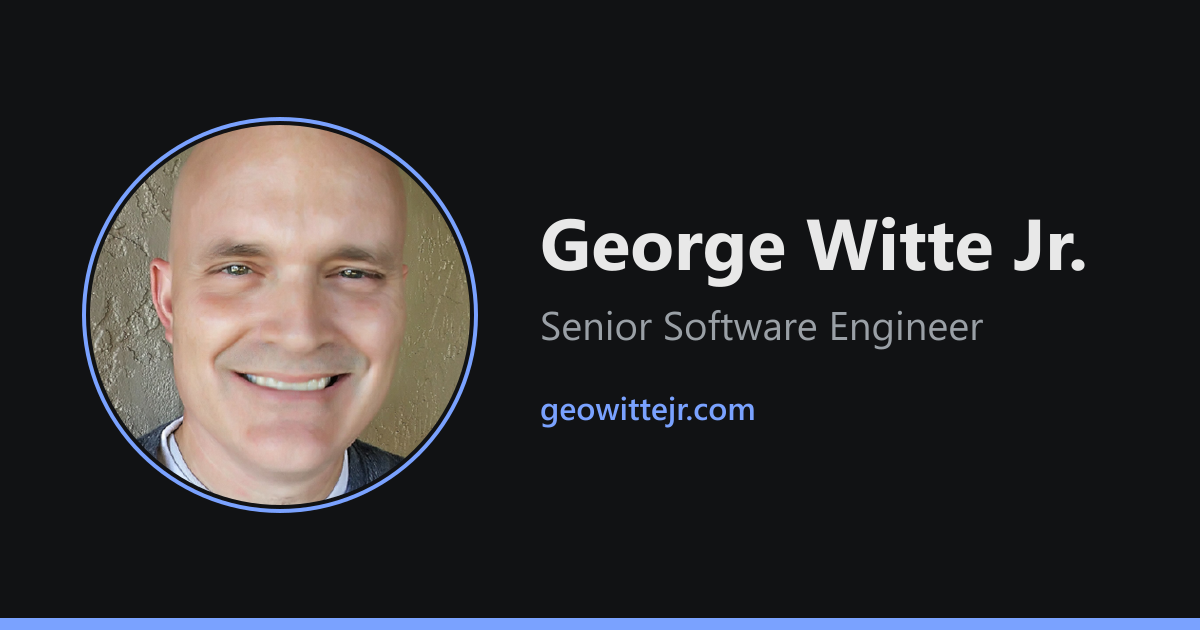
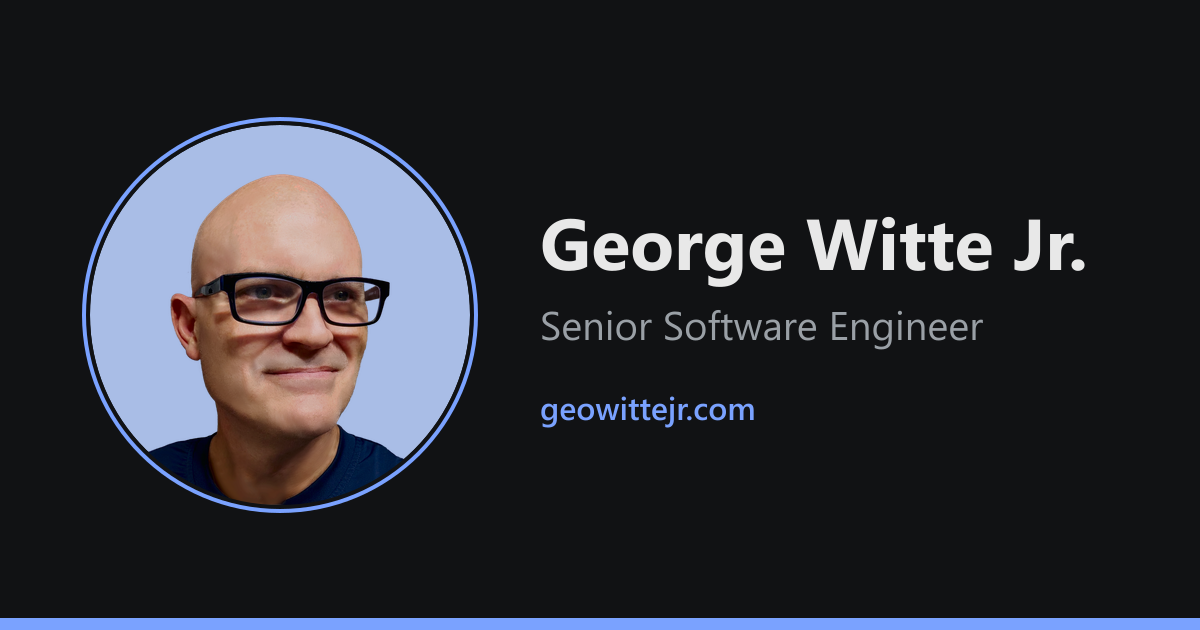
Build OG image from new transparent headshot
- Add public/geowittejr.png (transparent background) and drop scripts/headshot.png
- og-image.mjs reads the dark theme tokens from global.css, including a new
  --headshot-bg token that fills behind the transparent photo
- Regenerate public/og-image.png; update project plan

Changed region(s): [[0.0617, 0.181, 0.4008, 0.8143]]

diff --git a/src/styles/global.css b/src/styles/global.css
@@ -23,6 +23,8 @@
   --muted: #5f6368;
   --accent: #2557d6;
   --border: #e5e7eb;
+  /* Fill behind the transparent headshot (public/geowittejr.png). */
+  --headshot-bg: #dbe4f7;
   color-scheme: light;
 }
 
@@ -33,6 +35,7 @@
   --muted: #9aa0a6;
   --accent: #7aa2ff;
   --border: #2a2c30;
+  --headshot-bg: #a9bde6;
   color-scheme: dark;
 }
 
@@ -44,6 +47,7 @@
     --muted: #9aa0a6;
     --accent: #7aa2ff;
     --border: #2a2c30;
+    --headshot-bg: #a9bde6;
     color-scheme: dark;
   }
 }

diff --git a/docs/project-plan.md b/docs/project-plan.md
@@ -1,6 +1,6 @@
 # Project Plan: geowittejr.com
 
-> **Status:** Active · **Owner:** George Witte Jr. · **Last updated:** 2026-10-14
+> **Status:** Active · **Owner:** George Witte Jr. · **Last updated:** 2026-10-16
 >
 > This is the source of truth for how the site is built. Change this file when a decision changes, and log the change in the [Decision Log](#decision-log). Deeper designs for individual features go in [`docs/`](README.md).
 
@@ -55,10 +55,10 @@ geowittejr-dot-com/
 ├── public/                     # served as-is, not processed
 │   ├── CNAME                   # custom domain: geowittejr.com
 │   ├── favicon.svg
+│   ├── geowittejr.png          # headshot, transparent background (fill: --headshot-bg)
 │   └── og-image.png            # default social share image (built by scripts/og-image.mjs)
 ├── scripts/
-│   ├── og-image.mjs            # generates public/og-image.png with sharp
-│   └── headshot.png            # source photo for the OG image
+│   └── og-image.mjs            # generates public/og-image.png with sharp
 ├── src/
 │   ├── assets/                 # images optimized via astro:assets
 │   │   └── projects/
@@ -240,7 +240,7 @@ Each project body follows this outline. Senior hiring cares more about judgment 
   - [ ] Replace placeholder copy with real content
   - [ ] Wire the contact form to an endpoint that verifies the Turnstile token; swap in the real site key
 - [x] **M5: Polish.** Lighthouse/a11y pass, OG image, 404 page.
-  - Default OG/Twitter image `public/og-image.png` (1200×630, headshot + name), generated by `node scripts/og-image.mjs`; pages without their own image use it, with `summary_large_image`.
+  - Default OG/Twitter image `public/og-image.png` (1200×630, headshot + name), generated by `node scripts/og-image.mjs` from `public/geowittejr.png`. Colors come from the dark theme tokens in `global.css`; `--headshot-bg` fills behind the transparent headshot. Change a token and rerun the script; pages without their own image use it, with `summary_large_image`.
   - Lighthouse (desktop) on home, About, Resume, Contact, a case study, and a post: 100 in all four categories.
   - Contact form a11y: labeled fields, `:user-invalid` error styling with text + icon, `aria-invalid` synced, `aria-errormessage`.
   - 404 links back to the main sections.
@@ -255,6 +255,7 @@ Newest first. Each entry records what was decided and why, so the reasoning surv
 
 | Date       | Decision                                                                 | Rationale                                                          |
 | ---------- | ------------------------------------------------------------------------ | ------------------------------------------------------------------ |
+| 2026-10-16 | Transparent headshot; backdrop color is the `--headshot-bg` CSS token, read by the OG script | One place to change the color, for the site and the OG image |
 | 2026-10-14 | Contact form with Cloudflare Turnstile instead of a public email address | Avoids scraped-email spam; Turnstile is free, privacy-friendly, and needs no puzzle for most users |
 | 2026-10-14 | Online resume page (`/resume`) instead of `resume.pdf`                   | One source of truth, always current, indexable, no PDF to regenerate |
 | 2026-10-14 | OG image generated by a sharp script from a source photo                 | Reproducible; sharp already ships with Astro                       |
